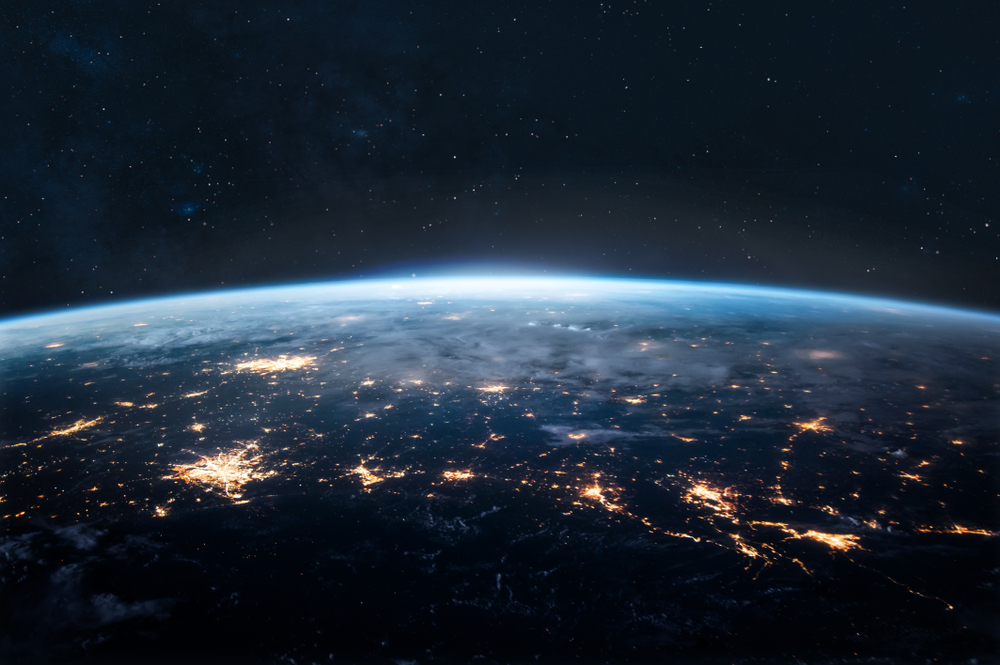
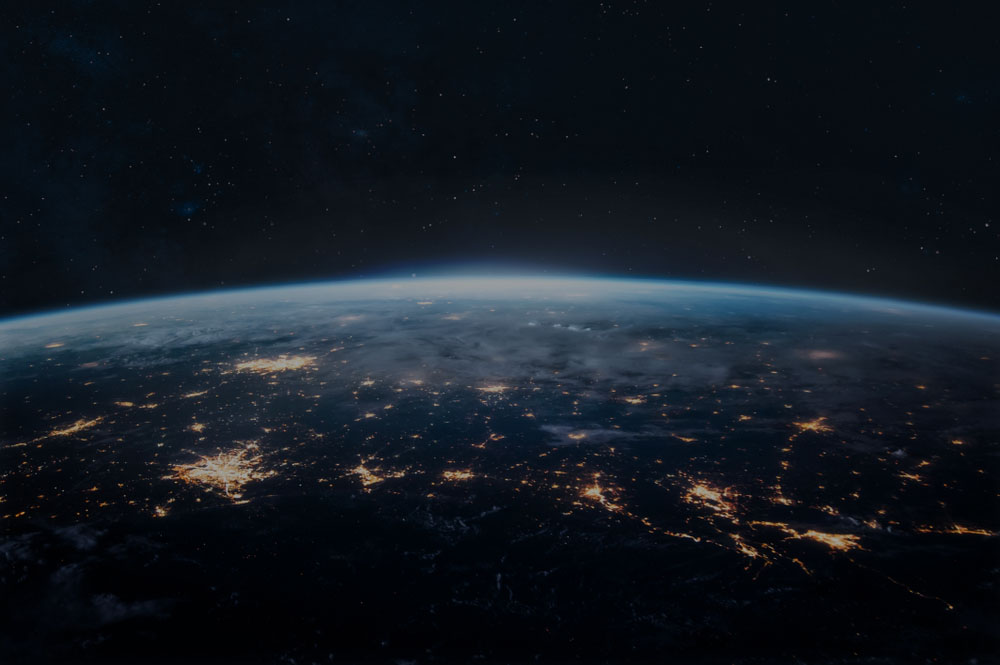
Front Page

diff --git a/public/css/main.css b/public/css/main.css
@@ -1283,7 +1283,7 @@ body {
         color: white; }
 
 #site_header {
-  height: 6rem;
+  height: 5rem;
   width: 100%;
   background: transparent;
   color: white;
@@ -1308,6 +1308,8 @@ body {
     padding-right: 2rem; }
     #site_header ul li {
       height: 100%; }
+      #site_header ul li a {
+        font-size: 0.75rem !important; }
       #site_header ul li label:hover {
         color: #97509E;
         cursor: pointer !important; }
@@ -1317,7 +1319,7 @@ body {
       #site_header ul li a, #site_header ul li label {
         text-decoration: none;
         color: white;
-        padding: 0 1rem;
+        padding: 0 0.25rem;
         height: 4rem; }
         #site_header ul li a:hover, #site_header ul li label:hover {
           color: #97509E !important;
@@ -1342,10 +1344,18 @@ body {
       display: flex !important; } }
 
 #page_front {
-  font-family: "Futura", sans-serif; }
+  background-repeat: no-repeat;
+  background-image: url("../images/Space-Background-sm.jpg");
+  background-attachment: fixed;
+  background-size: cover;
+  font-family: "Futura", sans-serif;
+  background-color: transparent; }
+  #page_front #bkg {
+    width: 475px; }
   #page_front h1 {
-    color: white;
-    font-size: 3.5rem;
+    color: #F3B820;
+    margin: 1rem !important;
+    font-size: 5rem;
     text-align: center; }
   #page_front h2 {
     color: white;
@@ -1360,34 +1370,31 @@ body {
       color: white;
       padding: 8px 30px !important; }
   #page_front #f1 {
-    background-size: cover;
+    background-color: transparent;
     width: 100%;
-    height: 700px;
-    background-repeat: no-repeat;
-    background-image: url("../images/Space-Background-sm.jpg");
-    -webkit-box-shadow: 0 13px 27px -5px rgba(50, 50, 93, 0.25), 0 8px 16px -8px rgba(0, 0, 0, 0.3);
-    box-shadow: 0 13px 27px -5px rgba(50, 50, 93, 0.25), 0 8px 16px -8px rgba(0, 0, 0, 0.3); }
+    height: auto; }
     #page_front #f1 .rxl {
       max-width: 80%;
       padding: 0 20%; }
   #page_front #f2, #page_front #f4 {
-    -webkit-box-shadow: 0 13px 27px -5px rgba(50, 50, 93, 0.25), 0 8px 16px -8px rgba(0, 0, 0, 0.3);
-    box-shadow: 0 13px 27px -5px rgba(50, 50, 93, 0.25), 0 8px 16px -8px rgba(0, 0, 0, 0.3); }
+    background-color: rgba(0, 0, 0, 0); }
     #page_front #f2 h2, #page_front #f4 h2 {
-      color: black;
-      font-size: 3rem; }
+      color: white;
+      font-size: 2rem; }
     #page_front #f2 h3, #page_front #f4 h3 {
-      font-size: 2.5rem;
-      text-align: left; }
+      font-size: 1.5rem;
+      text-align: left;
+      color: white; }
     #page_front #f2 p, #page_front #f4 p {
       text-align: left;
-      font-size: 2rem; }
+      font-size: 1rem;
+      color: white; }
     #page_front #f2 button, #page_front #f4 button {
       width: -webkit-fit-content;
       width: -moz-fit-content;
       width: fit-content;
-      height: 50px;
-      font-size: 1.7rem;
+      height: 44px;
+      font-size: 1.5rem;
       margin-top: 20px; }
   #page_front #f2 .rxl {
     max-width: 80%;
@@ -1396,15 +1403,13 @@ body {
     max-width: 80%;
     padding: 0 10%; }
   #page_front #f3 {
-    -webkit-box-shadow: 0 13px 27px -5px rgba(50, 50, 93, 0.25), 0 8px 16px -8px rgba(0, 0, 0, 0.3);
-    box-shadow: 0 13px 27px -5px rgba(50, 50, 93, 0.25), 0 8px 16px -8px rgba(0, 0, 0, 0.3);
-    background: #1C1C25; }
+    background: transparent; }
     #page_front #f3 h2 {
       color: white;
-      font-size: 3rem; }
+      font-size: 2rem; }
     #page_front #f3 h3 {
       color: white;
-      font-size: 3em;
+      font-size: 1.5em;
       text-align: left; }
     #page_front #f3 a {
       color: #97509E;
@@ -1412,25 +1417,25 @@ body {
     #page_front #f3 p {
       color: white;
       text-align: left;
-      font-size: 2rem; }
+      font-size: 1rem; }
     #page_front #f3 button {
       width: -webkit-fit-content;
       width: -moz-fit-content;
       width: fit-content;
-      height: 50px;
-      font-size: 1.7rem;
+      height: 44px;
+      font-size: 1.5rem;
       margin-top: 20px; }
       #page_front #f3 button a {
         color: #fff; }
   #page_front #f4 p {
-    font-size: 1.6rem; }
+    font-size: 1rem; }
   #page_front #f4 img {
     max-width: 200px; }
   #page_front #f4 .rxl {
     max-width: 80%;
     padding: 0 10%; }
   #page_front footer {
-    background: #1C1C25; }
+    background: rgba(0, 0, 0, 0.4); }
     #page_front footer h2, #page_front footer h3, #page_front footer h4, #page_front footer p {
       color: white; }
 

diff --git a/sass/_page-front.scss b/sass/_page-front.scss
@@ -1,10 +1,19 @@
 #page_front {
+    background-repeat: no-repeat;
+    background-image: url('../images/Space-Background-sm.jpg');
+    background-attachment: fixed;
+    background-size: cover;
     //transform: translateY(-4rem);
     font-family: "Futura", sans-serif;
-    
+    background-color: transparent;
+
+    #bkg{
+        width: 475px;
+    }
     h1 {
-        color: white;
-        font-size: 3.5rem;
+        color: #F3B820;
+        margin:1rem !important;
+        font-size: 5rem;
         text-align: center;
     }
 
@@ -27,36 +36,37 @@
         }
     }
     #f1 {
-        background-size: cover;
+        background-color:transparent;
         width: 100%;
-        height: 700px;
-        background-repeat: no-repeat;
-        background-image: url('../images/Space-Background-sm.jpg');
-        box-shadow: 0 13px 27px -5px rgba(50, 50, 93, 0.25), 0 8px 16px -8px rgba(0, 0, 0, 0.3);
+        height: auto;
+        
+        // box-shadow: 0 13px 27px -5px rgba(50, 50, 93, 0.25), 0 8px 16px -8px rgba(0, 0, 0, 0.3);
         .rxl{
             max-width: 80%;
             padding: 0 20%;
         }
     }
     #f2, #f4{
-        box-shadow: 0 13px 27px -5px rgba(50, 50, 93, 0.25), 0 8px 16px -8px rgba(0, 0, 0, 0.3);
-
+        // box-shadow: 0 13px 27px -5px rgba(50, 50, 93, 0.25), 0 8px 16px -8px rgba(0, 0, 0, 0.3);
+        background-color: rgba(0, 0, 0, 0);
         h2 {
-            color: black;
-            font-size: 3rem;
+            color: white;
+            font-size: 2rem;
         }
         h3{
-            font-size: 2.5rem;
+            font-size: 1.5rem;
             text-align: left;
+            color:white;
         }
         p{
             text-align: left;
-            font-size: 2rem
+            font-size: 1rem;
+            color: white;
         }
         button{
             width: fit-content;
-            height: 50px;
-            font-size: 1.7rem ;
+            height: 44px;
+            font-size: 1.5rem ;
             margin-top: 20px;
         }
     }
@@ -73,15 +83,15 @@
         }
     }
     #f3{
-        box-shadow: 0 13px 27px -5px rgba(50, 50, 93, 0.25), 0 8px 16px -8px rgba(0, 0, 0, 0.3);
-        background: #1C1C25;
+        // box-shadow: 0 13px 27px -5px rgba(50, 50, 93, 0.25), 0 8px 16px -8px rgba(0, 0, 0, 0.3);
+        background: transparent;
         h2 {
             color: white;
-            font-size: 3rem;
+            font-size: 2rem;
         }
         h3{
             color: white;
-            font-size: 3em;
+            font-size: 1.5em;
             text-align: left;
         }
         a{
@@ -91,12 +101,12 @@
         p{
             color: white;
             text-align: left;
-            font-size: 2rem
+            font-size: 1rem
         }
         button{
             width: fit-content;
-            height: 50px;
-            font-size: 1.7rem ;
+            height: 44px;
+            font-size: 1.5rem ;
             margin-top: 20px;
             a{
                 color: #fff;
@@ -105,7 +115,7 @@
     }
     #f4{
         p{
-            font-size: 1.6rem;
+            font-size: 1rem;
         }
         img{
             max-width: 200px;
@@ -118,7 +128,7 @@
     }
     footer{
         //height: 400px;
-        background: #1C1C25;
+        background: rgba(0,0,0,0.4);
         h2, h3, h4, p{
             color: white;
         }
@@ -134,9 +144,9 @@
         background-size: cover !important;
     }
     #f2{
-        h3,h2,p{
-            //text-align: center !important;
-        }
+        // h3,h2,p{
+        //     //text-align: center !important;
+        // }
         img{
             max-width: 100%;
         }

diff --git a/sass/_header.scss b/sass/_header.scss
@@ -33,7 +33,7 @@
 }
 
 #site_header {
-    height: 6rem;
+    height: 5rem;
     width: 100%;
     background: transparent;
     color: white;
@@ -56,7 +56,9 @@
 
         li {
             height: 100%;
-
+            a{
+                font-size: 0.75rem !important;
+            }
             label {
                 &:hover {
                     color: #97509E;
@@ -70,7 +72,7 @@
             a, label {
                 text-decoration: none;
                 color: white;
-                padding: 0 1rem;
+                padding: 0 0.25rem;
                 height: 4rem;
                 &:hover {
                     color: #97509E !important;
